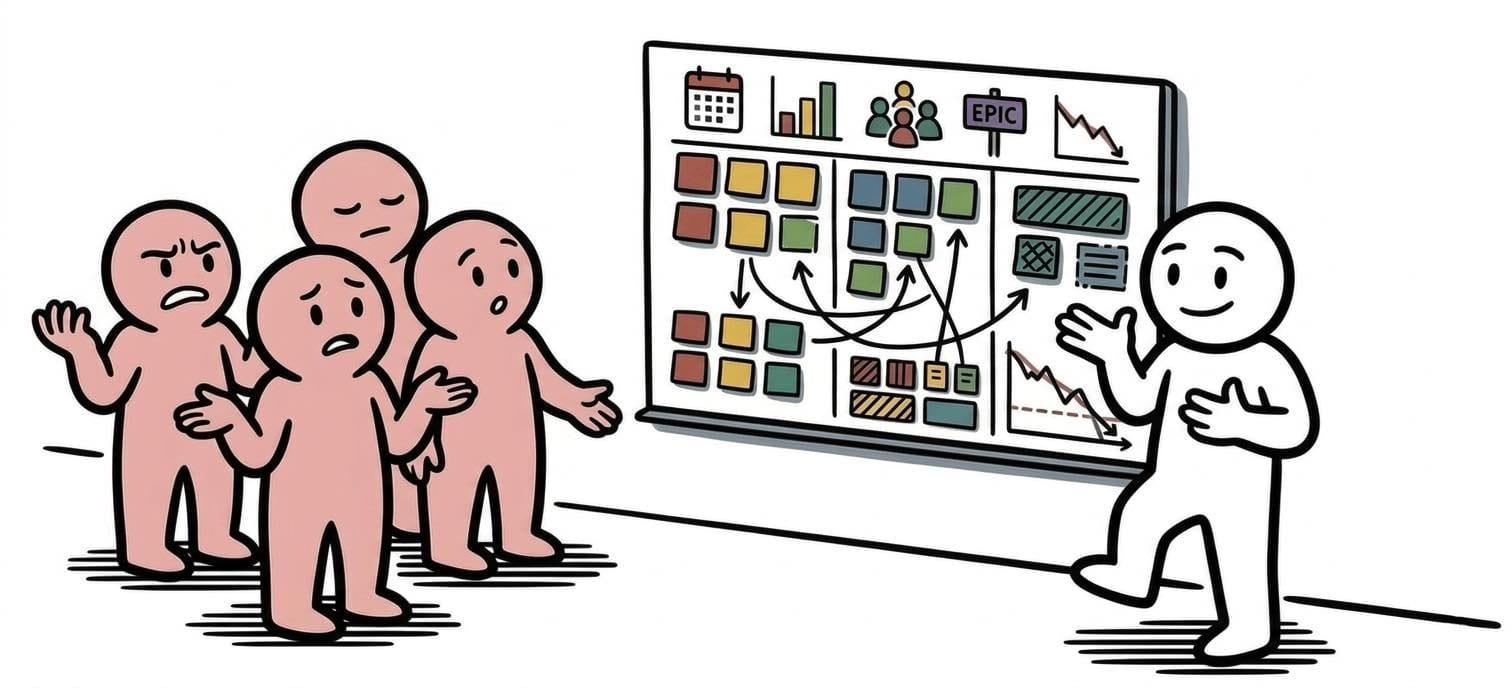
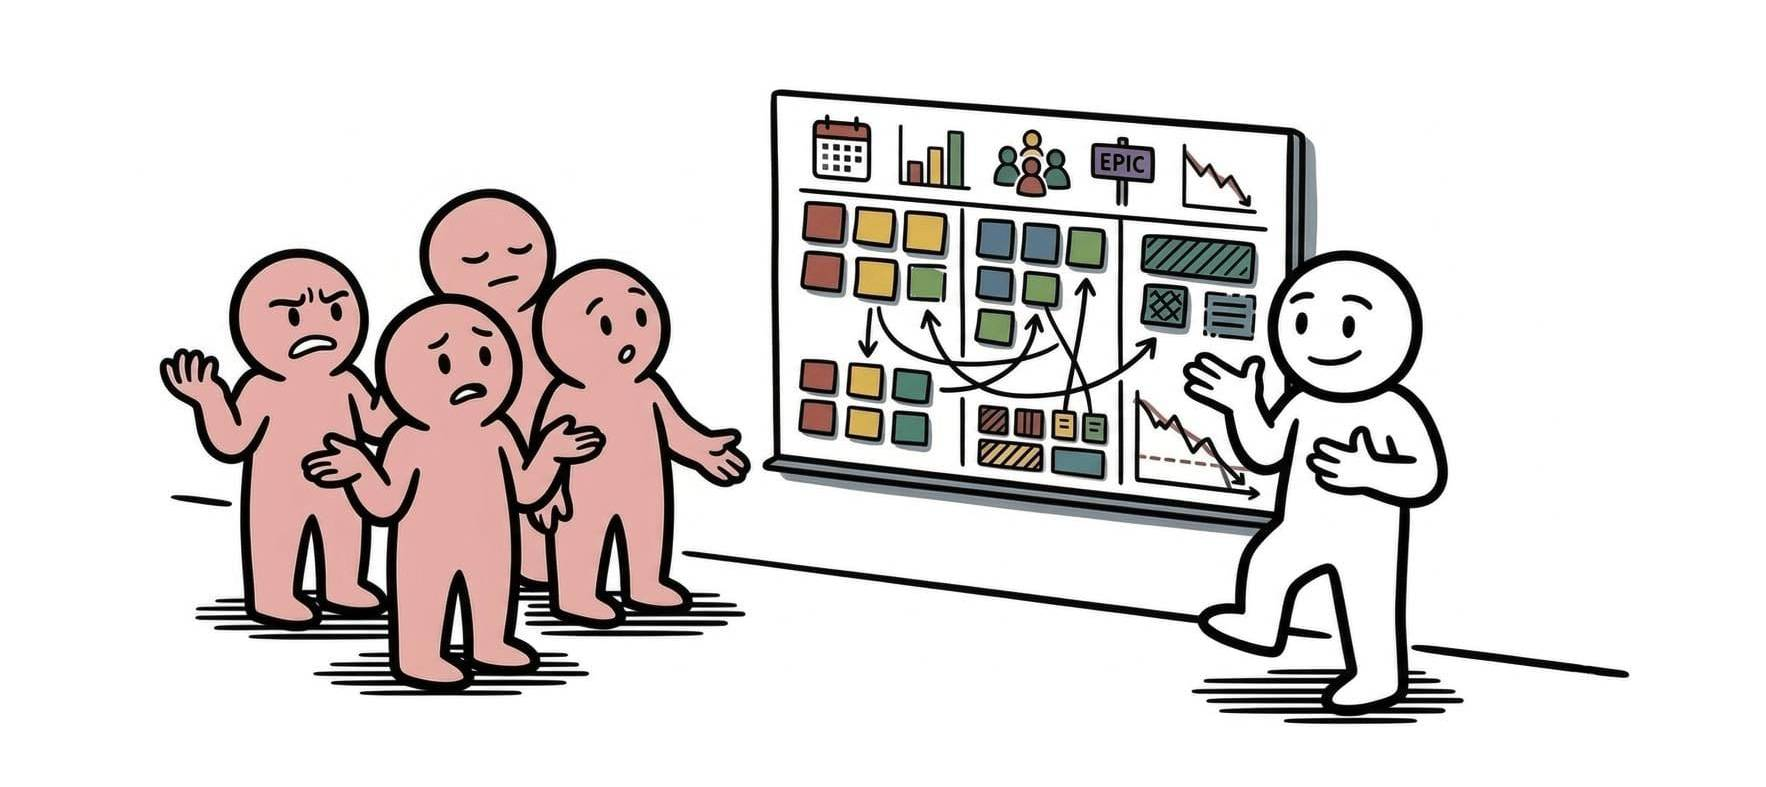
refresh product ownership images (#10)

diff --git a/src/writing/user-sign-off-is-not-product-accountability.md b/src/writing/user-sign-off-is-not-product-accountability.md
@@ -4,7 +4,7 @@ description: A practical argument against asking users to "sign off" solutions, 
 date: 2026-03-10
 tags: ["Product Ownership", "Product Management", "User Research"]
 layout: post
-socialImage: /assets/images/product-owner-hiding.png
+socialImage: /assets/images/product-owner-hiding.jpg
 socialImageAlt: Product owner hiding behind a user sign-off form
 series:
   key: product-ownership
